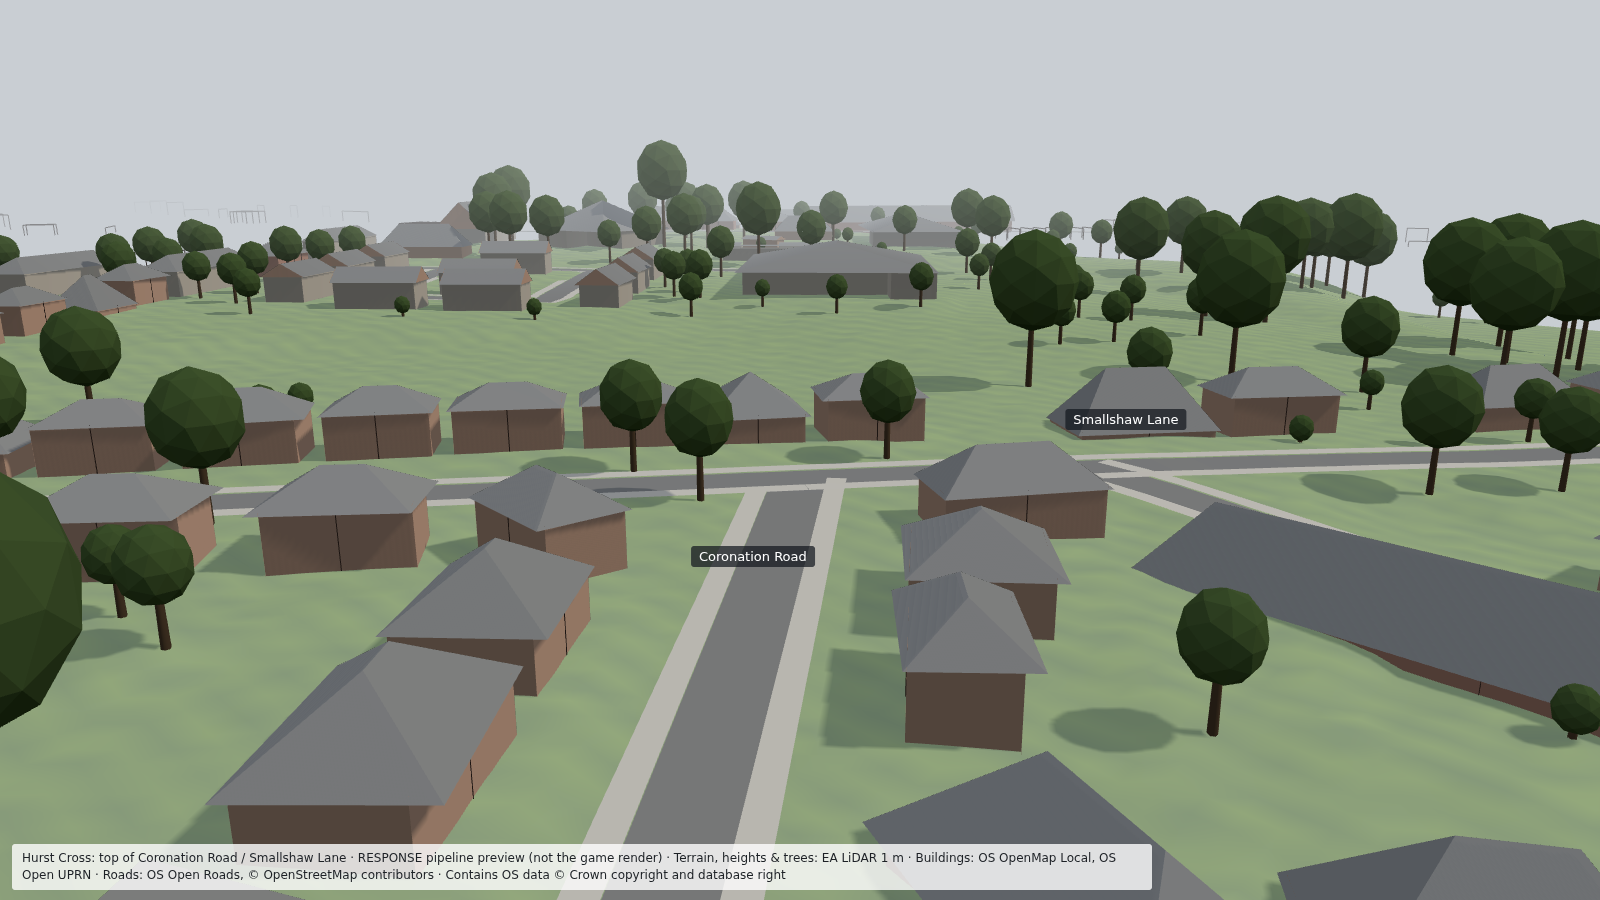
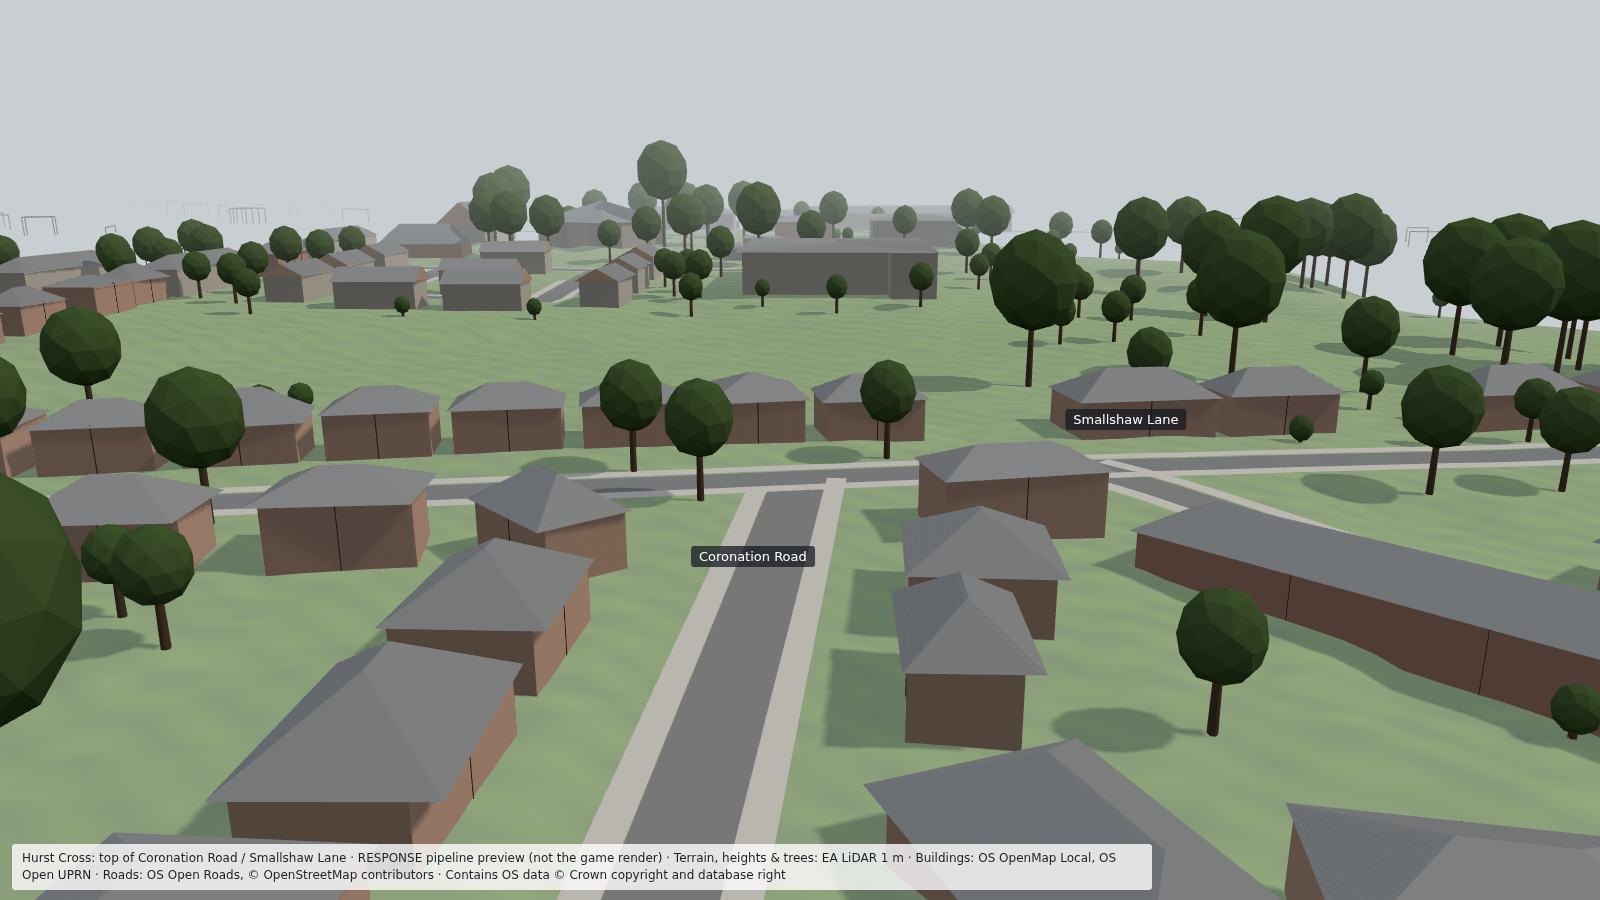
RESPONSE pipeline: fix sunk buildings (eaves fitted from roof profile)
Edge-band eaves estimate put two-storey semis on 1-4 m walls where
outlines include rear extensions or hip ends. Eaves now come from a
linear fit of height vs distance from the ridge on the main roof,
measured to the footprint wall line. Adds regression test.

Claude-Session: https://claude.ai/code/session_015tLJWuBKy6nnpFKCm5odqQ

diff --git a/Response/Pipeline/tameside_pipeline/massing.py b/Response/Pipeline/tameside_pipeline/massing.py
@@ -4,8 +4,10 @@ Heights
   ground_z      median DTM inside the footprint (EA DTM is interpolated under buildings)
   ground_z_min  5th percentile DTM in a 0.5-2 m ring outside the footprint (lowest doorstep, for sloping streets)
   ridge         95th percentile of nDSM inside the footprint eroded by 0.5 m (avoids wall-edge pixels)
-  eaves         25th percentile, over the 1.5 m band just inside the eroded edge, of each cell's nDSM projected
-                out to the wall along its own slope (nDSM - slope * distance to wall)
+  eaves         pitched roofs: ridge - half main-roof depth * tan(median pitch), where the depth is measured across the
+                ridge over the roof cells above 60% of ridge height (so rear extensions do not widen it).
+                Flat roofs: eaves = ridge. The older edge-band estimate is kept only as a cross-check (QA flag
+                'low_eaves_check'). First real run showed the edge-band method sinking 1930s semis.
 
 Roof type (raster method; the LAZ point-cloud RANSAC upgrade is in docs/02)
   Downhill directions of pitched DSM cells (> 12 deg) are reduced to one axis with the double-angle mean.
@@ -24,6 +26,7 @@ STOREY_M = 2.7
 GROUND_FLOOR_OFFSET_M = 0.3
 PITCH_MIN_DEG = 12.0
 DEFAULT_EAVES_M = 5.5
+MIN_EAVES_M = 2.3  # lowest plausible wall top (single-storey garage/extension)
 
 
 def _window_gradient(dsm: Heightfield, rr: np.ndarray, cc: np.ndarray):
@@ -70,6 +73,47 @@ def classify_roof(dz_de: np.ndarray, dz_dn: np.ndarray) -> dict:
     else:
         t, dom = "complex", 0.5
     return {"type": t, "ridge_bearing_deg": round(ridge_bearing, 1), "confidence": round(float(dom * size_conf * frac), 2)}
+
+
+def fit_roof_profile(e, n, h, roof: dict, ridge: float, geom=None):
+    """Fit height vs distance from the ridge line on the main roof; return (eaves at the wall line, pitch in degrees).
+
+    Uses cells above half the ridge height (drops extensions and ground), and for hips only the middle section between
+    the hipped ends. The wall line comes from the footprint outline (nearer side, so a rear extension cannot push it
+    out), capped at the outermost roof cells + 1.5 m.
+    """
+    th = math.radians(roof["ridge_bearing_deg"])
+    across = e * math.cos(th) - n * math.sin(th)
+    along = e * math.sin(th) + n * math.cos(th)
+    main = h > 0.5 * ridge
+    if main.sum() < 8:
+        return None
+    a, q, z = along[main], across[main], h[main]
+    if roof["type"] == "mono_pitch":
+        d = q - q.min()
+        k, c = np.polyfit(d, z, 1)
+        edge = d.max() + 1.0
+        lo = min(c, c + k * edge)
+        return float(lo), float(math.degrees(math.atan(abs(k))))
+    top = z >= np.percentile(z, 85)
+    q0 = float(np.median(q[top]))  # ridge line position across the roof
+    d = np.abs(q - q0)
+    if roof["type"] == "hip":
+        half_depth = np.percentile(d, 95)
+        mid = np.abs(a - np.median(a)) < max((a.max() - a.min()) / 2 - half_depth, 1.0)
+        if mid.sum() >= 6:
+            d, z = d[mid], z[mid]
+    if np.ptp(d) < 1.0:
+        return None
+    k, c = np.polyfit(d, z, 1)
+    if k >= 0:
+        return None
+    edge = float(np.percentile(d, 98)) + 1.5
+    if geom is not None:
+        xy = np.asarray(geom.exterior.coords)
+        fq = xy[:, 0] * math.cos(th) - xy[:, 1] * math.sin(th)
+        edge = min(edge, max(min(q0 - fq.min(), fq.max() - q0), 0.5))
+    return float(c + k * edge), float(math.degrees(math.atan(-k)))
 
 
 def compute_massing(geom, dtm: Heightfield, dsm: Heightfield) -> tuple[dict, list[str]]:
@@ -120,10 +164,19 @@ def compute_massing(geom, dtm: Heightfield, dsm: Heightfield) -> tuple[dict, lis
     dist = shapely.distance(geom.exterior, shapely.points(ev, nv))
     grad = np.nan_to_num(np.hypot(gx[band], gy[band]))
     at_wall = ndsm[valid][band] - grad * dist
-    eaves = float(np.percentile(at_wall, 25))
+    band_eaves = float(np.percentile(at_wall, 25))
+
+    eaves = band_eaves
+    if roof["type"] in ("gable", "hip", "mono_pitch") and "ridge_bearing_deg" in roof:
+        fit = fit_roof_profile(e[valid], n[valid], ndsm[valid], roof, ridge, geom)
+        if fit is not None:
+            eaves, pitch_deg = fit
+            roof["pitch_deg"] = round(pitch_deg, 1)
+        if eaves < 3.5 and ridge > 6.5:
+            flags.append("low_eaves_check")  # tall roof on short walls: bungalow with loft, or a bad fit
     if roof["type"] == "flat":
         eaves = ridge  # parapet/flat roof: top of wall is the roof line
-    eaves = min(eaves, ridge)
+    eaves = min(max(eaves, MIN_EAVES_M), ridge)
     storeys = max(1, int(round((eaves - GROUND_FLOOR_OFFSET_M) / STOREY_M)))
 
     if roof["confidence"] < 0.5:

diff --git a/Response/Pipeline/tests/test_stage_bc.py b/Response/Pipeline/tests/test_stage_bc.py
@@ -114,7 +114,7 @@ def test_gable_roof():
     m, flags = compute_massing(HOUSE, flat_hf(), dsm_with(gable))
     assert m["roof"]["type"] == "gable"
     assert m["roof"]["ridge_bearing_deg"] == pytest.approx(90, abs=10)
-    assert 7.0 < m["ridge_height_m"] <= 8.0 and m["eaves_height_m"] == pytest.approx(5.0, abs=0.3)
+    assert 7.0 < m["ridge_height_m"] <= 8.0 and m["eaves_height_m"] == pytest.approx(5.0, abs=0.5)
     assert m["storeys"] == 2 and m["ground_z"] == 100.0
 
 
@@ -258,3 +258,18 @@ def test_preview_scene_builds():
     scene = build_scene(recs, roads, flat_hf(), dsm_with(gable), (1050.0, 2050.0), 40.0, ["Old Street"])
     assert scene["walls"]["pos"] and scene["roofs"]["pos"] and scene["roads"]["pos"] and scene["labels"][0]["text"] == "Old Street"
     assert scene["terrain"]["nx"] == 41
+
+
+def test_semi_with_rear_extension_is_not_sunk():
+    """Regression (Hurst Cross): hipped 1930s semi pair whose OS outline includes a single-storey rear extension."""
+    def semi(e, n):
+        main = (e > 1020) & (e < 1036) & (n > 2040) & (n < 2048)
+        ext = (e > 1022) & (e < 1034) & (n > 2036) & (n <= 2040)  # 4 m deep flat-roof extension, 3 m high
+        d = np.minimum.reduce([n - 2040, 2048 - n, e - 1020, 1036 - e])
+        roof = 5.2 + np.minimum(d, 4.0) * 0.75  # 37 deg hip, eaves 5.2, ridge 8.2
+        return np.where(main, roof, np.where(ext, 3.0, 0.0))
+    outline = Polygon([(1020, 2040), (1022, 2040), (1022, 2036), (1034, 2036), (1034, 2040), (1036, 2040), (1036, 2048), (1020, 2048)])
+    m, flags = compute_massing(outline, flat_hf(), dsm_with(semi))
+    assert m["roof"]["type"] == "hip"
+    assert m["eaves_height_m"] == pytest.approx(5.2, abs=0.6)
+    assert m["storeys"] == 2

diff --git a/Response/docs/08_first_real_run.md b/Response/docs/08_first_real_run.md
@@ -20,7 +20,7 @@ Date: 2026-09-26. Zone: 800 × 800 m centred near the junction (E 394508, N 4005
 - 686 buildings, 1,789 units (homes/premises), 152 road links, 135 nodes, 268 LiDAR-detected trees in the preview window.
 - Building types: 467 semi-detached, 64 terrace, 38 flats (council_1960s), 83 detached, 29 other, 3 church, 2 civic.
 - Roofs: 559 hip, 64 gable, 46 complex, 9 mono-pitch, 8 flat. Hipped 1930s-style semi pairs dominate here, and that matches the DSM hillshade.
-- 99 buildings flagged for QA.
+- 96 buildings flagged for QA (after the eaves fix).
 - Coronation Road: local road, 20 mph (from OSM), rising from about 138 m to 146 m at the Smallshaw Lane junction.
 
 ## Problems the run exposed, now fixed
@@ -31,6 +31,12 @@ Date: 2026-09-26. Zone: 800 × 800 m centred near the junction (E 394508, N 4005
    598 buildings "detached". Fix: count **OS Open UPRN address points** and **OSM buildings** inside each polygon.
    Records now carry `units` (count, basis, per-unit outlines split along the long axis), and building types use the
    unit count. The preview draws party walls as seams.
+
+4. **Houses sunk into the ground** (spotted by the creative director on the first screenshot). The edge-band eaves
+   estimate read 0.9–3.9 m walls on two-storey semis, because rear extensions and steep hip ends skewed it. Eaves are
+   now fitted from the roof profile (height against distance from the ridge on the main roof only, measured to the
+   wall line taken from the footprint). Semi/terrace eaves median is now 4.9 m (25–75%: 4.6–5.2 m), and 421 of 493 are
+   two-storey. Remaining low values are flagged `low_eaves_check`. Regression test: a hipped semi with a rear extension.
 
 ## Known limits (next iterations)
 - Roofs are placed on the footprint's ridge-aligned rectangle, so L-shaped houses get a simplified roof. The LAZ plane-fitting
